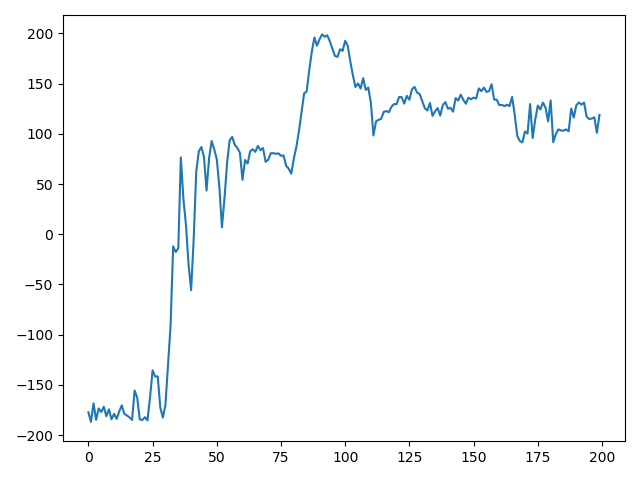
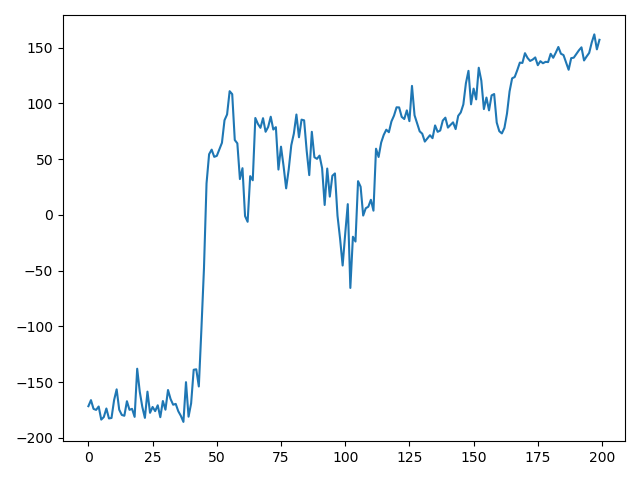
Add files via upload

diff --git a/cartpole_a2c.py b/cartpole_a2c.py
@@ -84,16 +84,16 @@ class Agent:
     def update_parameters(self, trajectories, gamma):
         c = 0.01
         loss = torch.tensor([0]).float().cuda()
-        optim = torch.optim.Adam(list(self.policy_net.parameters()) + list(self.baseline.parameters()))
+        optim = torch.optim.Adam(list(self.policy_net.parameters()) + list(self.baseline.parameters()), lr=0.01)
         for trajectory in trajectories:
             for t in range(len(trajectory['rewards'])):
                 r_t = torch.tensor([0]).float().cuda()
                 log_prob = trajectory['log_probs'][t]
                 temp = trajectory['rewards'][t:t + 20]
-                for i, reward in enumerate(temp):
+                for i, reward in enumerate(temp[:-1]):
                     r_t += gamma ** i * reward
                 critic_estimate = self.baseline(trajectory['states'][t])[0]
-                r_t += gamma ** i * critic_estimate
+                r_t += gamma ** i * self.baseline(trajectory['states'][i+1])[0]
                 advantage_t = r_t - critic_estimate
                 loss += (-log_prob * advantage_t) + (c * (critic_estimate - r_t) ** 2)
                 if t % 20 == 0:
